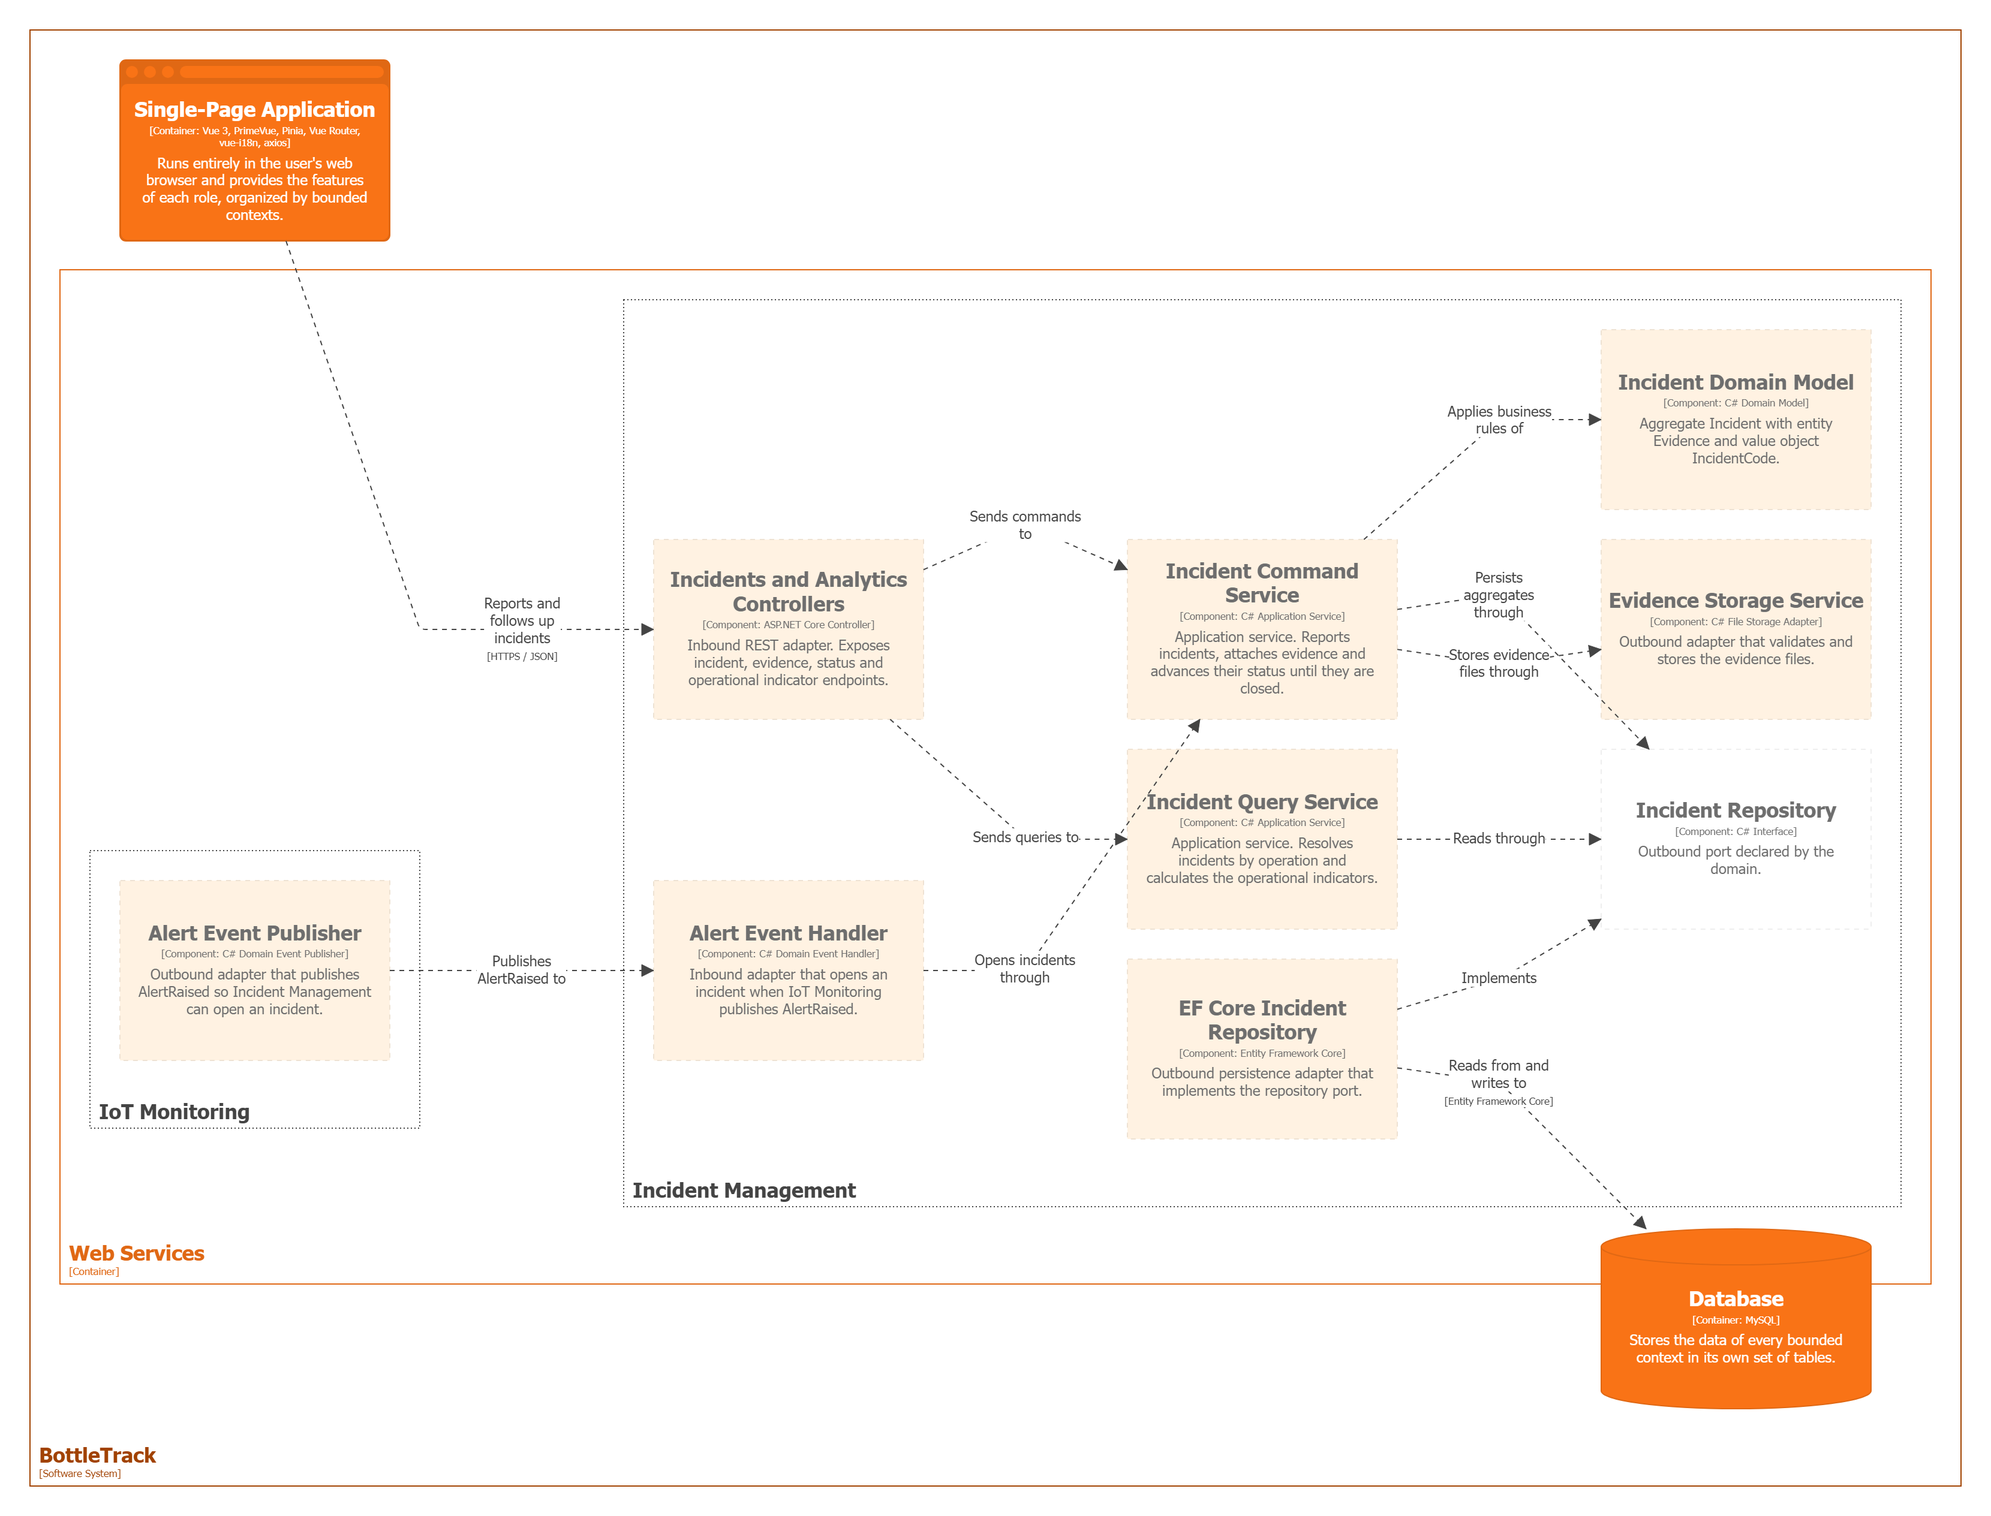
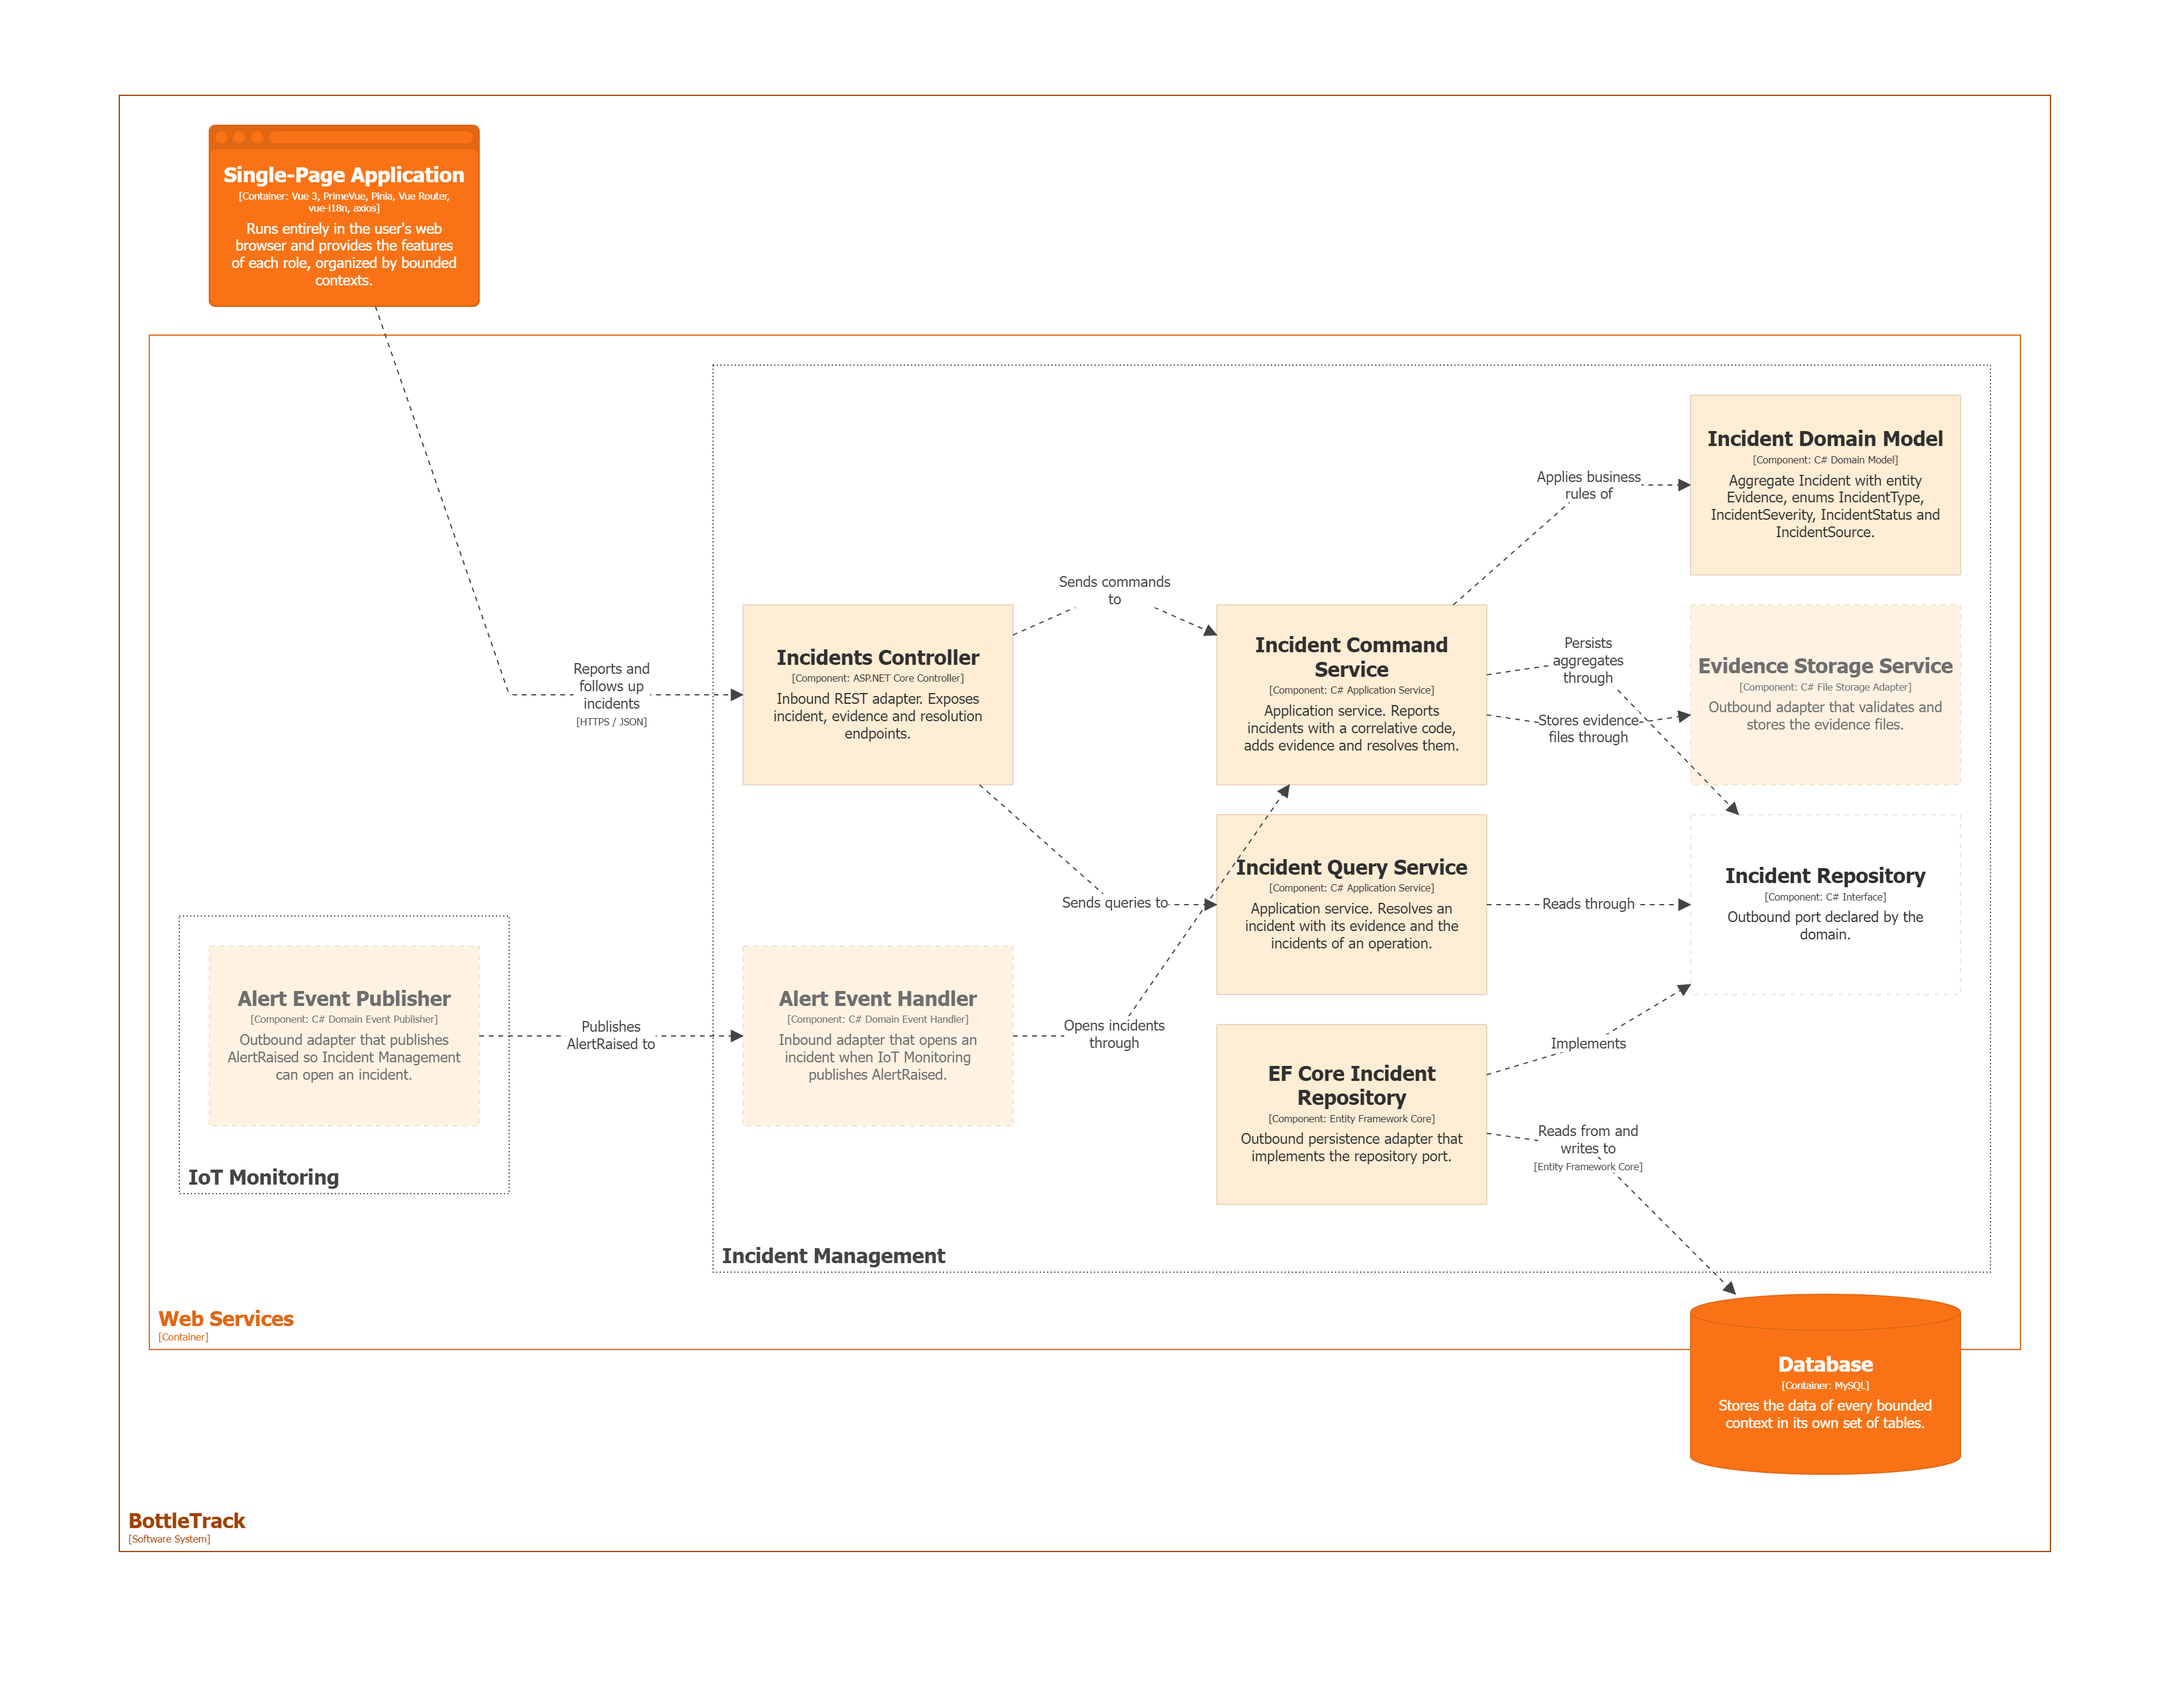
fix(report): align incident management diagrams with the web services

diff --git a/report/40-chapter-4-product-design.md b/report/40-chapter-4-product-design.md
@@ -764,7 +764,7 @@ Se elaboró un diagrama de componentes por bounded context. Los componentes dibu
 
 <img src="assets/DD-SoftwareArchitecture/componentIoTM_D.png" alt="Diagrama de componentes de IoT Monitoring" width="800">
 
-**Incident Management.** Gestiona las incidencias, su evidencia, su severidad y su resolución. Abre incidencias a partir de los reportes del supervisor, de la bodega o de las alertas de IoT Monitoring.
+**Incident Management.** Gestiona las incidencias, su evidencia, su severidad y su resolución, con origen en el supervisor, la bodega o una alerta IoT. Implementado: reporte de incidencias con un código correlativo, registro de evidencias como enlace al archivo, resolución y consulta de las incidencias de una operación. El manejador del evento `AlertRaised` y el servicio que almacena los archivos de evidencia están planificados.
 
 <img src="assets/DD-SoftwareArchitecture/componentIM_D.png" alt="Diagrama de componentes de Incident Management" width="800">
 
@@ -852,11 +852,11 @@ Vigila la carga durante la operación con las lecturas de temperatura y golpes d
 
 Registra y da seguimiento a las incidencias que afectan una operación o una entrega, con sus evidencias, hasta su cierre.
 
-*Frontend.* `Incident` guarda su código, su origen, su tipo, su severidad, la cantidad afectada y su estado. Avanza por `INCIDENT_STATUSES` (reportada, en revisión, resuelta y cerrada) y expone getters que guían la interfaz: `nextStatus`, `isOpen` y `requiresResolution`. Cada `Evidence` pertenece a una incidencia (`0..*` a `1`). Los comandos validan sus datos antes de enviarlos: `ReportIncidentCommand` para reportar, `AdvanceIncidentCommand` para pasar al siguiente estado y `AttachEvidenceCommand` para adjuntar una evidencia. `IncidentAssembler` y `EvidenceAssembler` leen esos comandos y crean las entidades, y `IncidentsApi` accede al API con cuatro `BaseEndpoint`.
+*Frontend.* `Incident` guarda su código, su origen, su tipo, su severidad, la cantidad afectada y su estado. Avanza por `INCIDENT_STATUSES` (reportada, en revisión, resuelta y cerrada) y expone getters que guían la interfaz: `nextStatus`, `isOpen` y `requiresResolution`. Cada `Evidence` pertenece a una incidencia (`0..*` a `1`). Los comandos validan sus datos antes de enviarlos: `ReportIncidentCommand` para reportar, `AdvanceIncidentCommand` para pasar al siguiente estado y `AttachEvidenceCommand` para adjuntar una evidencia. `IncidentAssembler` y `EvidenceAssembler` leen esos comandos y crean las entidades, y `IncidentsApi` accede al API con dos `BaseEndpoint`, uno para incidencias y otro para operaciones; las evidencias se agregan y la resolución se registra a través de la propia incidencia.
 
 <img src="assets/Software-Object-Oriented-Design/frontend-class-incident-management.png" alt="Diagrama de clases de Incident Management en el frontend" width="800">
 
-*Backend.* `Incident` es la raíz del agregado y contiene sus `Evidence` (`0..*`). Su ciclo de vida se expresa con los métodos `Report`, `AttachEvidence`, `AssignSeverity`, `Review`, `Resolve` y `Close`. Cada incidencia se clasifica por tipo (`IncidentType`), tiene una severidad (`Severity`), un estado (`IncidentStatus`) y un origen (`IncidentSource`): el supervisor, la bodega o una alerta IoT. `IIncidentRepository` lista las incidencias de las operaciones y obtiene el siguiente código correlativo.
+*Backend.* `Incident` es la raíz del agregado y contiene sus `Evidence` (`0..*`). Su ciclo de vida se expresa con los métodos `Report`, `AddEvidence`, `StartReview`, `Resolve` y `Close`. Cada incidencia se clasifica por tipo (`IncidentType`), tiene una severidad (`IncidentSeverity`), un estado (`IncidentStatus`) y un origen (`IncidentSource`): el supervisor, la bodega o una alerta IoT. `IIncidentRepository` obtiene una incidencia con sus evidencias, lista las incidencias de una operación y cuenta las existentes para generar el código correlativo.
 
 <img src="assets/Software-Object-Oriented-Design/backend-class-incident-management.png" alt="Diagrama de clases de Incident Management en el backend" width="800">
 
